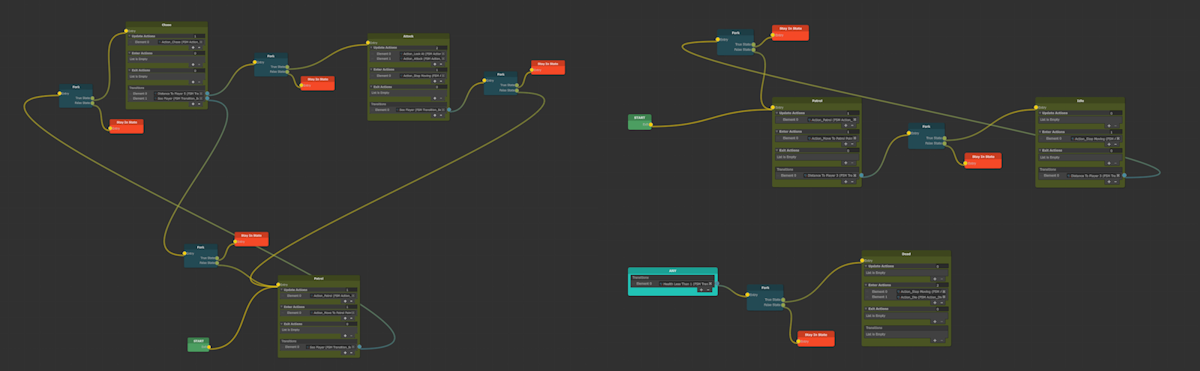
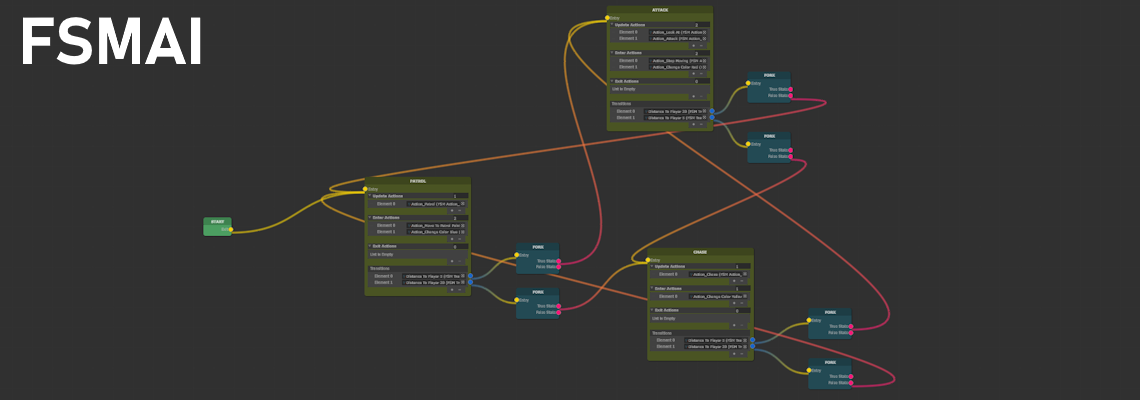
Editor update

diff --git a/Runtime/StateMachine.cs b/Runtime/StateMachine.cs
@@ -8,10 +8,9 @@ namespace FSMAI
     public class StateMachine : MonoBehaviour
     {
         [SerializeField] FSMGraph AIGraph;
-        [SerializeField] bool isActive;
         [SerializeField] float updateFrequency;
 
-        [HideInInspector] public FSMState currentState;
+        FSMState currentState;
         FSMState_Any anyState;
         Dictionary<Type, Component> components = new Dictionary<Type, Component>();
 
@@ -33,7 +32,8 @@ namespace FSMAI
                     NodePort outPort = startNode.GetOutputPort("exit").Connection;
                     if (outPort != null)
                     {
-                        ChangeState(outPort.node as FSMState);
+                        currentState = outPort.node as FSMState;
+                        currentState.OnEnter(this);
                         return;
                     }
                 }
@@ -60,28 +60,23 @@ namespace FSMAI
 
         private void RunMachine()
         {
-            if (!isActive)
-                return;
-
-            if (anyState != null)
-                anyState.OnUpdate(this);
+            anyState.OnUpdate(this);
             currentState.OnUpdate(this);
         }
 
         public void ChangeState(FSMState newState)
         {
             if (newState == currentState)
-                Debug.Log("Tried to change into current state");
+                Debug.Log(gameObject.name + " new state the same as current state");
 
-            if (currentState != null)
-                currentState.OnExit(this);
+            currentState.OnExit(this);
             currentState = newState;
             currentState.OnEnter(this);
         }
 
         #endregion
 
-        #region GetComponent and Enable/Disable
+        #region GetComponents
 
         public new T GetComponent<T>() where T : Component
         {
@@ -97,11 +92,6 @@ namespace FSMAI
 
             Debug.Log("No Such Component");
             return null;
-        }
-
-        public void ToggleActive(bool state)
-        {
-            isActive = state;
         }
 
         #endregion

diff --git a/Runtime/FSMTransitionFork.cs b/Runtime/FSMTransitionFork.cs
@@ -6,24 +6,24 @@ namespace FSMAI
     public class FSMTransitionFork : FSMNode
     {
         [Input(backingValue = ShowBackingValue.Never)] public int entry;
-        [Output] public FSMStateBase trueState;
-        [Output] public FSMStateBase falseState;
+        [Output] public FSMNode trueState;
+        [Output] public FSMNode falseState;
 
-        public FSMStateBase ForkResult(bool decisionResult)
+        public FSMNode ForkResult(bool decisionResult)
         {
-            FSMStateBase returnState;
+            FSMNode returnState = null;
 
-            if (decisionResult)
-                returnState = GetOutputPort("trueState").Connection.node as FSMStateBase;
-            else
-                returnState = GetOutputPort("falseState").Connection.node as FSMStateBase;
+            if (decisionResult && GetOutputPort("trueState").Connection != null)
+                returnState = GetOutputPort("trueState").Connection.node as FSMNode;
+            else if (!decisionResult && GetOutputPort("falseState").Connection != null)
+                returnState = GetOutputPort("falseState").Connection.node as FSMNode;
 
             return returnState;
         }
 
         private void Reset()
         {
-            name = "Fork";
+            name = "FORK";
         }
     }
 

diff --git a/Runtime/FSMState_Any.cs b/Runtime/FSMState_Any.cs
@@ -3,8 +3,8 @@ using System.Collections.Generic;
 
 namespace FSMAI
 {
-    [CreateNodeMenu("Any Node"), NodeWidth(350), NodeTint("#21C2B5")]
-    public class FSMState_Any : FSMStateBase
+    [NodeWidth(350), NodeTint("#21C2B5")]
+    public class FSMState_Any : FSMNode
     {
         [Output(dynamicPortList = true)] public List<FSMTransition> transitions = new List<FSMTransition>();
 
@@ -14,9 +14,9 @@ namespace FSMAI
             for (int i = 0; i < transitions.Count; i++)
             {
                 FSMTransitionFork connectedFork = GetOutputPort("transitions " + i.ToString()).Connection.node as FSMTransitionFork;
-                FSMStateBase returnedState = connectedFork.ForkResult(transitions[i].Decide(machine));
+                FSMNode returnedState = connectedFork.ForkResult(transitions[i].Decide(machine));
 
-                if (returnedState is not FSMState_StayInCurrent)
+                if (returnedState != null)
                 {
                     machine.ChangeState(returnedState as FSMState);
                     break;

diff --git a/Runtime/FSMState.cs b/Runtime/FSMState.cs
@@ -4,7 +4,7 @@ using UnityEngine;
 namespace FSMAI
 {
     [CreateNodeMenu("State Node"), NodeWidth(350), NodeTint("#4A5423")]
-    public class FSMState : FSMStateBase
+    public class FSMState : FSMNode
     {
         [Input(backingValue = ShowBackingValue.Never)] public int entry;
 
@@ -38,9 +38,9 @@ namespace FSMAI
             for (int i = 0; i < transitions.Count; i++)
             {
                 FSMTransitionFork connectedFork = GetOutputPort("transitions " + i.ToString()).Connection.node as FSMTransitionFork;
-                FSMStateBase returnedState = connectedFork.ForkResult(transitions[i].Decide(machine));
+                FSMNode returnedState = connectedFork.ForkResult(transitions[i].Decide(machine));
 
-                if (returnedState is not FSMState_StayInCurrent)
+                if (returnedState != null)
                 {
                     machine.ChangeState(returnedState as FSMState);
                     break;

diff --git a/Editor/FSMGraphEditor.cs b/Editor/FSMGraphEditor.cs
@@ -1,0 +1,18 @@
+using XNodeEditor;
+using System;
+
+namespace FSMAI.Editor
+{
+    [CustomNodeGraphEditor(typeof(FSMGraph))]
+    public class FSMGraphEditor : NodeGraphEditor
+    {
+        public override string GetNodeMenuName(Type type)
+        {
+            if (typeof(FSMState).IsAssignableFrom(type) || typeof(FSMTransitionFork).IsAssignableFrom(type))
+            {
+                return base.GetNodeMenuName(type);
+            }
+            else return null;
+        }
+    }
+}

diff --git a/Runtime/FSMState_Initial.cs b/Runtime/FSMState_Initial.cs
@@ -2,8 +2,8 @@ using UnityEngine;
 
 namespace FSMAI
 {
-    [CreateNodeMenu("Start Node"), NodeWidth(100), NodeTint("#4C9E61")]
-    public class FSMState_Initial : FSMStateBase
+    [NodeWidth(100), NodeTint("#4C9E61")]
+    public class FSMState_Initial : FSMNode
     {
         [Output(backingValue = ShowBackingValue.Never)] public int exit;
 

diff --git a/Runtime/FSMGraph.cs b/Runtime/FSMGraph.cs
@@ -3,7 +3,7 @@ using XNode;
 
 namespace FSMAI
 {
-    [CreateAssetMenu(menuName = "FSM/New AI Graph")]
+    [CreateAssetMenu(menuName = "FSMAI/New AI Graph"), RequireNode(typeof(FSMState_Any), typeof(FSMState_Initial))]
     public class FSMGraph : NodeGraph
     {
         //

diff --git a/Runtime/FSMTransition.cs b/Runtime/FSMTransition.cs
@@ -4,6 +4,7 @@ namespace FSMAI
 {
     public abstract class FSMTransition : ScriptableObject
     {
+        public const string createPath = "FSMAI/Transitions/";
         public abstract bool Decide(StateMachine machine);
 
     }

diff --git a/Runtime/FSMAction.cs b/Runtime/FSMAction.cs
@@ -4,6 +4,7 @@ namespace FSMAI
 {
     public abstract class FSMAction : ScriptableObject
     {
+        public const string createPath = "FSMAI/Actions/";
         public abstract void Execute(StateMachine machine);
     }
 }
